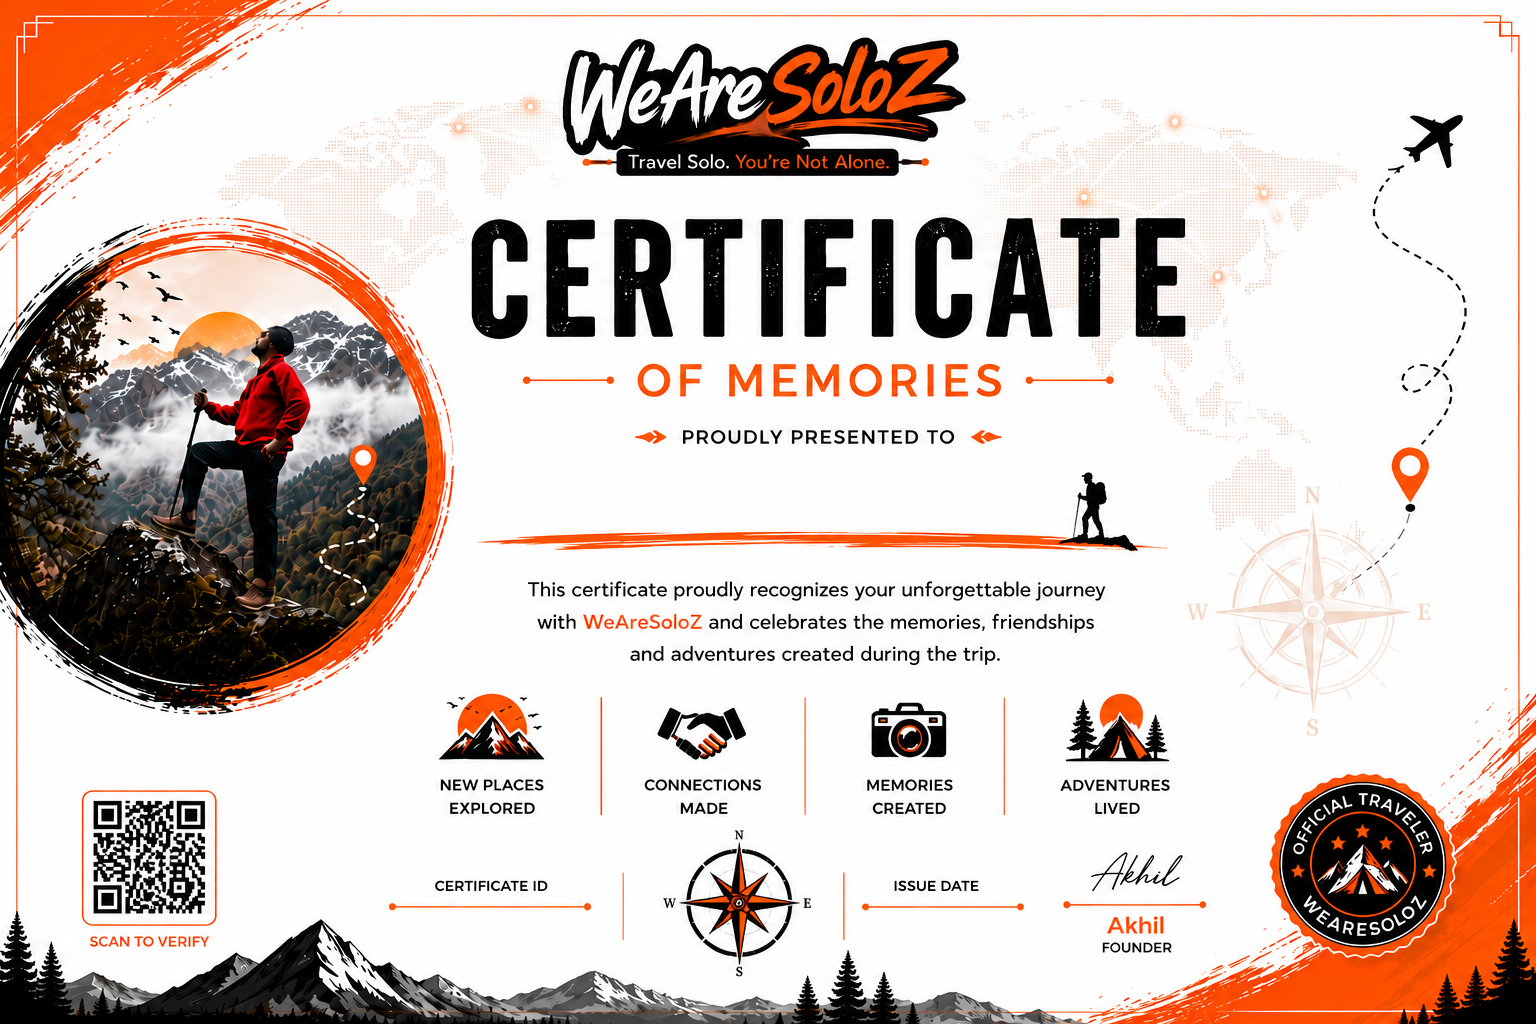
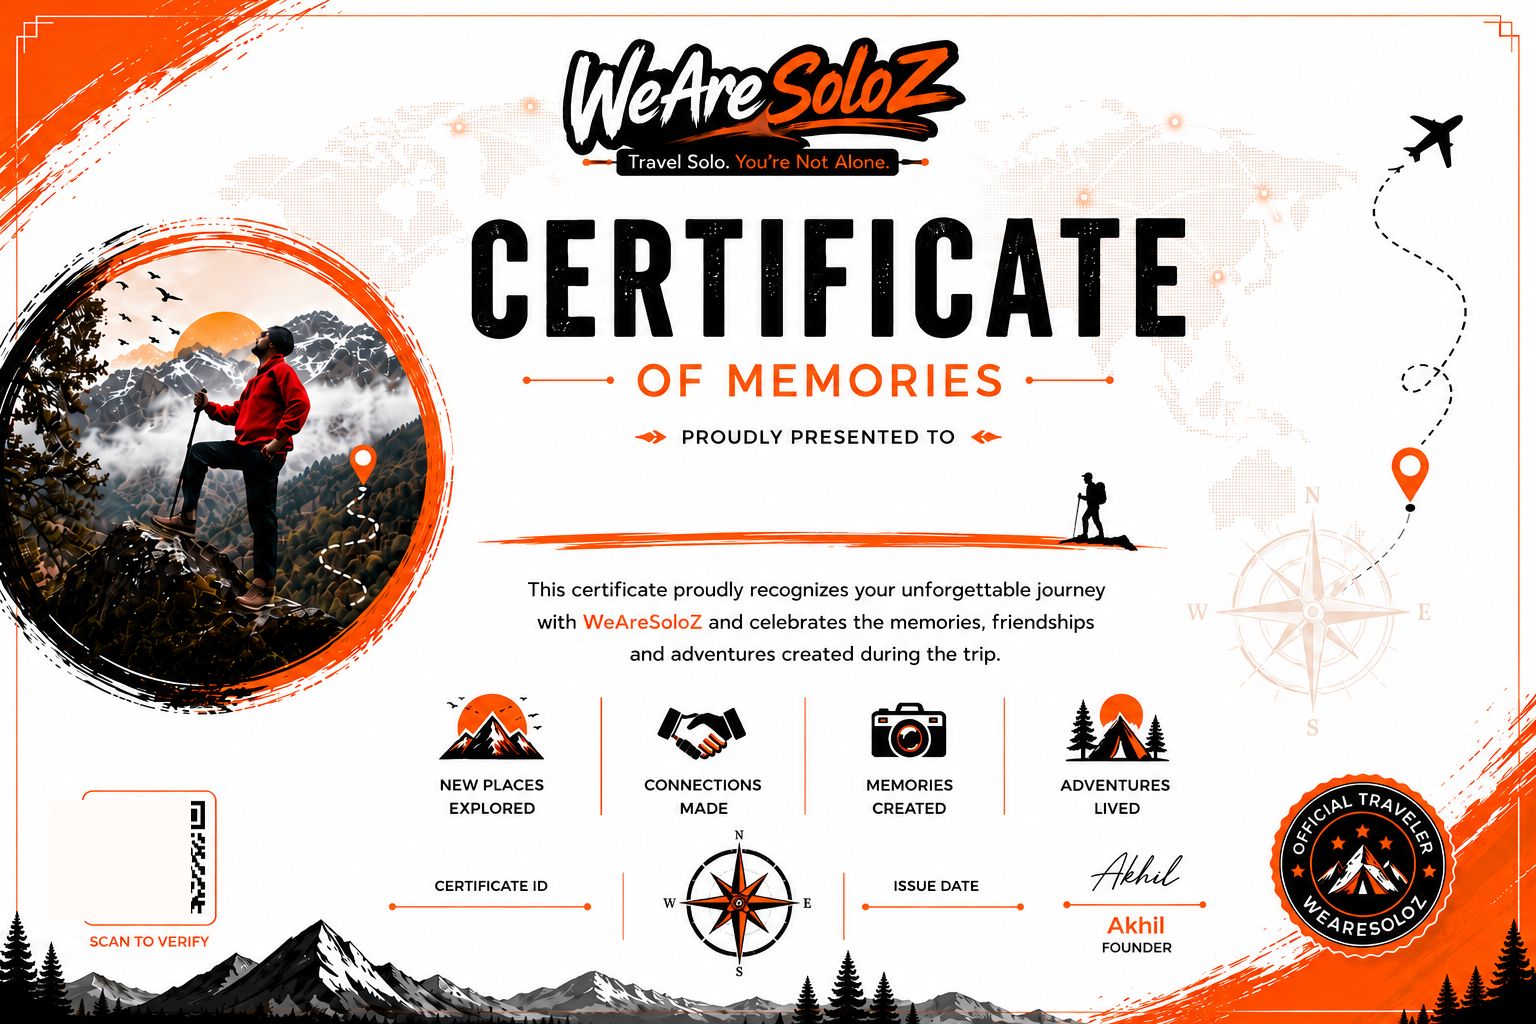
fix(certificate): permanently erase dummy QR from master background asset and add network fallback for dynamic QR code

Changed region(s): [[0.0312, 0.7812, 0.125, 0.9062]]

diff --git a/app/certificate/[id]/page.tsx b/app/certificate/[id]/page.tsx
@@ -143,30 +143,35 @@ export default function CertificatePage({ params }: { params: Promise<{ id: stri
     ctx.textAlign = "center";
     ctx.fillText(formattedDate, issueDateX, valueY);
 
-    // 5. Verification QR Code: Erase baked-in dummy QR placeholder first, then draw dynamic scannable QR
+    // 5. Verification QR Code: Render dynamic scannable QR over clean template space
     try {
-      // Clear inner area of the orange QR box with template background color (#fffbf9)
-      const clearX = W * 0.033;
-      const clearY = H * 0.781;
-      const clearW = W * 0.090;
-      const clearH = H * 0.125;
-      ctx.fillStyle = "#fffbf9";
-      ctx.fillRect(clearX, clearY, clearW, clearH);
+      const targetUrl = window.location.href;
+      const primaryQrUrl = `https://api.qrserver.com/v1/create-qr-code/?size=250x250&data=${encodeURIComponent(targetUrl)}`;
+      const fallbackQrUrl = `https://quickchart.io/qr?text=${encodeURIComponent(targetUrl)}&size=250`;
 
-      const qrUrl = `https://api.qrserver.com/v1/create-qr-code/?size=200x200&data=${encodeURIComponent(window.location.href)}`;
-      const qrImg = await new Promise<HTMLImageElement>((resolve, reject) => {
+      const qrImg = await new Promise<HTMLImageElement>((resolve) => {
         const img = new window.Image();
         img.crossOrigin = "anonymous";
         img.onload = () => resolve(img);
-        img.onerror = (e) => reject(e);
-        img.src = qrUrl;
+        img.onerror = () => {
+          // Fallback to quickchart if primary QR service fails or times out
+          const fallbackImg = new window.Image();
+          fallbackImg.crossOrigin = "anonymous";
+          fallbackImg.onload = () => resolve(fallbackImg);
+          fallbackImg.onerror = () => resolve(img); // return original if both fail
+          fallbackImg.src = fallbackQrUrl;
+        };
+        img.src = primaryQrUrl;
       });
-      const qrX = W * 0.036; // ~56px
+
+      const qrX = W * 0.035; // ~54px
       const qrY = H * 0.785; // ~804px
-      const qrW = W * 0.084; // ~128px
-      const qrH = H * 0.111; // ~114px
+      const qrW = W * 0.086; // ~132px
+      const qrH = H * 0.113; // ~116px
       ctx.drawImage(qrImg, qrX, qrY, qrW, qrH);
-    } catch (e) {}
+    } catch (e) {
+      console.error("QR rendering error:", e);
+    }
 
     // 6. Flatten Canvas into a Single PNG Data URL
     const finalDataUrl = canvas.toDataURL("image/png");
